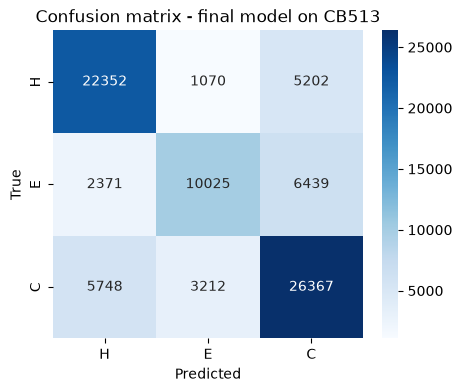
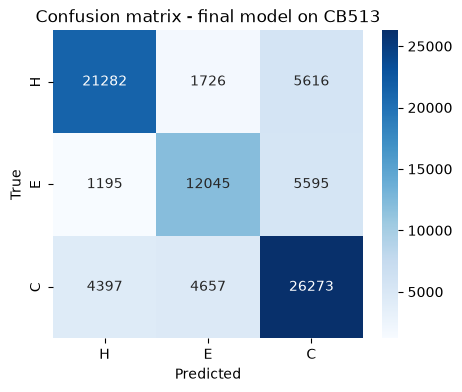
feat: final polish to notebook and helpers

diff --git a/helpers/model.py b/helpers/model.py
@@ -11,7 +11,7 @@ class CNNLSTMModel(nn.Module):
             in_channels=input_dim,
             out_channels=n_filters,
             kernel_size=kernel_size,
-            padding=kernel_size // 2  # "same" padding, čuva seq_len
+            padding=kernel_size // 2  # "same" padding, keeps seq_len
         )
         self.bn = nn.BatchNorm1d(n_filters)
         self.relu = nn.ReLU()
@@ -25,16 +25,16 @@ class CNNLSTMModel(nn.Module):
         )
         self.dropout2 = nn.Dropout(dropout)
 
-        self.fc = nn.Linear(lstm_units * 2, n_classes)  # *2 zbog bidirectional
+        self.fc = nn.Linear(lstm_units * 2, n_classes)  # *2 because of bidirectional
 
     def forward(self, x):
         # x: (batch, seq_len, input_dim)
-        x = x.transpose(1, 2)          # -> (batch, input_dim, seq_len) za Conv1d
+        x = x.transpose(1, 2)          # -> (batch, input_dim, seq_len) for Conv1d
         x = self.conv(x)
         x = self.bn(x)
         x = self.relu(x)
         x = self.dropout1(x)
-        x = x.transpose(1, 2)          # -> (batch, seq_len, n_filters) za LSTM
+        x = x.transpose(1, 2)          # -> (batch, seq_len, n_filters) for LSTM
 
         x, _ = self.lstm(x)            # -> (batch, seq_len, lstm_units*2)
         x = self.dropout2(x)

diff --git a/helpers/optimizers/pso.py b/helpers/optimizers/pso.py
@@ -2,21 +2,20 @@ import numpy as np
 from helpers.train import train_model
 from helpers.optimizers.random_search import PARAM_RANGES
 
-# Kontinualni prostor pretrage: [n_filters, kernel_size, lstm_units, dropout, log10(lr), batch_size_idx]
 BOUNDS = np.array([
     PARAM_RANGES["n_filters"],
     (3, 7),                                  # kernel_size
     PARAM_RANGES["lstm_units"],
     PARAM_RANGES["dropout"],
     (np.log10(PARAM_RANGES["lr"][0]), np.log10(PARAM_RANGES["lr"][1])),
-    (0, len(PARAM_RANGES["batch_size_options"]) - 1),  # index u listu batch_size_options
+    (0, len(PARAM_RANGES["batch_size_options"]) - 1),  
 ], dtype=np.float64)
 
 
 def position_to_config(pos):
     n_filters = int(np.clip(pos[0], *BOUNDS[0]))
     kernel_size = int(np.clip(round(pos[1]), *BOUNDS[1]))
-    if kernel_size % 2 == 0:  # kernel mora biti neparan zbog "same" padding-a u modelu
+    if kernel_size % 2 == 0:  
         kernel_size += 1
     lstm_units = int(np.clip(pos[2], *BOUNDS[2]))
     dropout = float(np.clip(pos[3], *BOUNDS[3]))
@@ -65,7 +64,6 @@ def pso(n_particles, n_iterations, X_train, y_train, mask_train,
         history.append(gbest_score)
         print(f"[PSO] Iter {it+1}/{n_iterations} | best so far: {gbest_score:.4f}")
 
-        # Ažuriranje brzine i pozicije
         r1 = np.random.rand(n_particles, dim)
         r2 = np.random.rand(n_particles, dim)
         velocities = (
@@ -75,7 +73,6 @@ def pso(n_particles, n_iterations, X_train, y_train, mask_train,
         )
         positions = positions + velocities
 
-        # drži pozicije unutar granica
         for d in range(dim):
             positions[:, d] = np.clip(positions[:, d], BOUNDS[d][0], BOUNDS[d][1])
 

diff --git a/helpers/optimizers/bayesian_opt.py b/helpers/optimizers/bayesian_opt.py
@@ -46,8 +46,6 @@ def bayesian_optimization(n_calls, X_train, y_train, mask_train,
     }
     best_acc = -result.fun
 
-    # history do sad je "trenutna" tačnost po evaluaciji; za krivu konvergencije
-    # nam treba "najbolja do sad" (running max) da bude uporedivo sa GA/PSO
     running_best = np.maximum.accumulate(history)
 
     return best_config, best_acc, running_best.tolist()

diff --git a/README.md b/README.md
@@ -198,14 +198,14 @@ jupyter notebook PredikcijaStruktureProteina.ipynb
 
 ### Finalni model — evaluacija na CB513
 
-CB513 Q3 accuracy: 0.7096
+CB513 Q3 accuracy: 0.7199
 
 | Metrika | Vrednost |
 |---|---|
 | F1 tačnost (test) | |
-| F1 - H | 0.756 |
-| F1 - E | 0.605 |
-| F1 - C | 0.72 |
+| F1 - H | 0.767 |
+| F1 - E | 0.646 |
+| F1 - C | 0.722 |
 
 ![confusion-matrix](visuals/cb513-confusion-matrix.png)
 